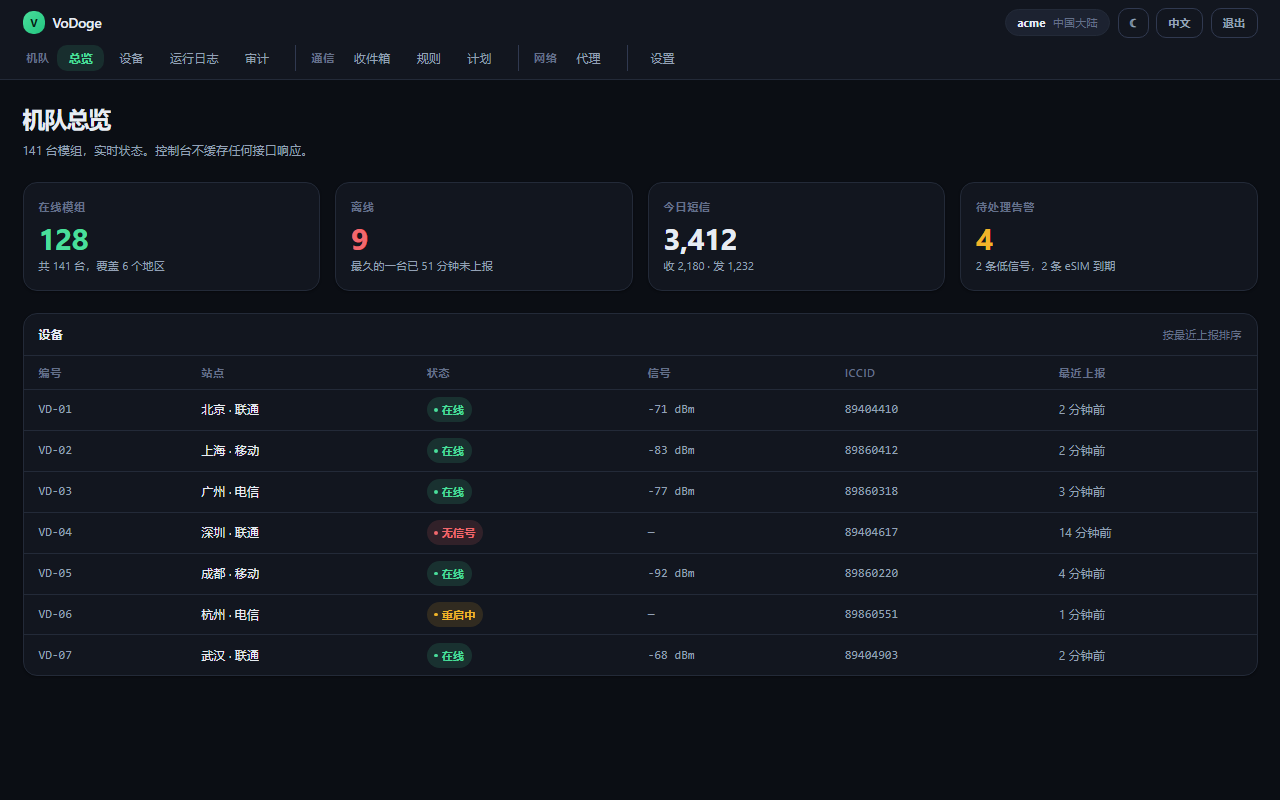
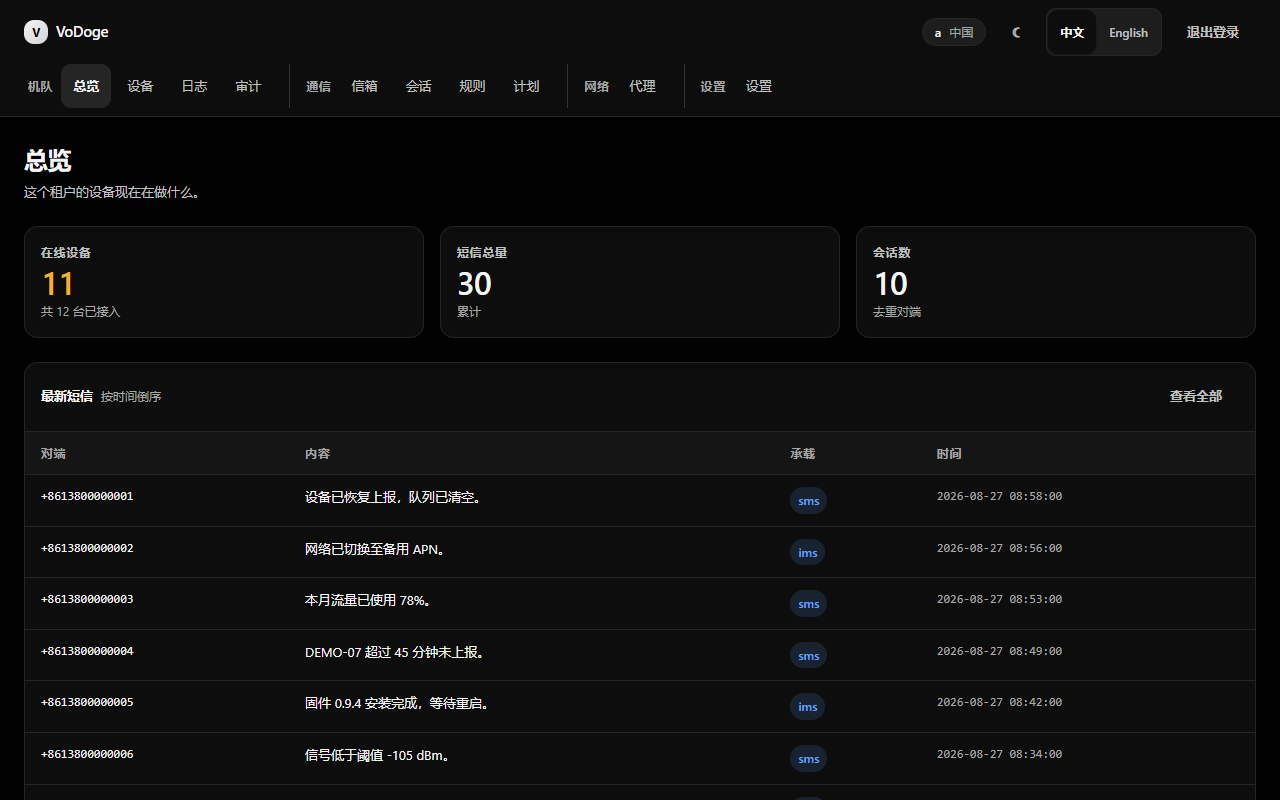
T013: capture the install-dialog screenshots from the real page, and guard them
Both manifest screenshots were the old green palette — 13 of 15 retired tokens
in the narrow file, none of the new ones. They were also, and worse, pictures of
a page this console has never had: four stat cards and a device table headed
机队总览, against a real overview of three stat cards and a recent-messages table
headed 总览. Not one of their strings is in messages/zh.json, and 12b1ef7 — the
commit that added the files — already had the three-card shape. They were drawn,
not taken. Recolouring them would have made the drawing more convincing, so both
are now captured from the real page under a stub gateway serving synthetic data.

They are viewport screenshots and cannot be whole-page ones: at 390 CSS px the
table starts at y=818 and the page is 931 tall with every row hidden, against a
declared frame of 844, and the 0.43 aspect floor caps a 780-wide image at about
907. That is not the defect the icons shipped with — there the layout width
disagreed with the frame. Here it does not, and the guard checks exactly that.

Two tests in lib/pwa.test.ts, which the size check could never do:

  - the palette must be the current one, read off COLOR_TOKENS rather than
    written down, so a hex typed into the test cannot outlive a palette change;
  - the shell must reach both margins and the content column's gutters must be
    symmetric, which is what tells a page from a corner of a wider one.

Mutation verified in an isolated copy of the tree, so lib/tokens.ts was never
[…]

diff --git a/apps/console/lib/pwa.test.ts b/apps/console/lib/pwa.test.ts
@@ -904,6 +904,171 @@ test("the install dialog has a screenshot of each shape, at the declared size", 
   }
 });
 
+/* ── What the install dialog actually shows a person ──────────────────
+ *
+ * The size check above was the only thing looking at these two files, and it
+ * is the same check that let five cropped icons ship. It cannot see colour and
+ * it cannot see composition, and both had gone wrong here at once:
+ *
+ *   - Every pixel was the old green palette. 13 of 15 retired tokens were
+ *     present in the narrow file and none of the new ones were — not partial
+ *     drift, the entire picture.
+ *   - Worse, the picture was of a page this console has never had: four stat
+ *     cards and a device table headed 机队总览. The real overview has three
+ *     stat cards and a recent-messages table headed 总览. `git show
+ *     12b1ef7:apps/console/app/page.tsx` — the commit that added these very
+ *     files — already had the three-card shape, and not one of the strings in
+ *     the old images exists in messages/zh.json. They were drawn, not taken.
+ *
+ * Recolouring a drawing of a page that does not exist would have made it more
+ * convincing, not less wrong, so both files are now captured from the real
+ * page under a stub gateway serving synthetic data.
+ *
+ * 🔴 THESE ARE VIEWPORT SCREENSHOTS, NOT WHOLE-PAGE IMAGES, AND THEY CANNOT BE.
+ * At 390 CSS px the messages table does not begin until y=818, and the page is
+ * 931 CSS px tall even with every row hidden — against a declared frame of 844
+ * (=1688/2). No demo data fits it. Nor does any legal reframing: at 780 wide,
+ * Chromium's 0.43 aspect floor caps the height at about 907 CSS px, and the
+ * page's own floor is 931. There is no honest 780x1688 that holds the whole
+ * page, so what these show is the top of a page that scrolls — which is what a
+ * phone screenshot is.
+ *
+ * That is emphatically NOT the defect the icons shipped with. That one was a
+ * LAYOUT WIDTH that disagreed with the frame — laid out at 466, framed at 192,
+ * so the composition itself was wrong while the size was right. The two checks
+ * below are what tell those apart: the palette has to be the current one, and
+ * the layout has to have been done at the frame's own width.
+ */
+
+/** Every dark-theme token colour, packed, so a pixel costs one lookup. */
+function darkTokenPalette(): Map<number, string> {
+  const packed = new Map<number, string>();
+  for (const value of Object.values(COLOR_TOKENS)) {
+    const hex = value.dark.toLowerCase();
+    // The soft tints are rgba() and never land on an exact pixel; skip them
+    // rather than pretend a translucent token has a colour of its own.
+    if (!/^#[0-9a-f]{6}$/.test(hex)) continue;
+    const [r, g, b] = rgbOf(hex);
+    packed.set((r << 16) | (g << 8) | b, hex);
+  }
+  return packed;
+}
+
+/**
+ * The tokens this page genuinely paints, and therefore the ones a stale file
+ * would betray. Measured when these images were made — narrow / wide:
+ * bg 279271/198705, surface 913047/721768, surface-raised 34956/50845,
+ * surface-hover 16134/3892, line 17121/16238, fg 5746/2716,
+ * fg-muted 6077/1346, fg-faint 3780/1200.
+ *
+ * `fg-strong` (3 px / 0 px) and `line-strong` (528 / 132) are deliberately out.
+ * A token the overview does not paint cannot make the screenshot stale, and
+ * demanding it would only make this red the day a layout stops using it.
+ */
+const SCREENSHOT_TOKENS = [
+  "bg",
+  "surface",
+  "surface-raised",
+  "surface-hover",
+  "line",
+  "fg",
+  "fg-muted",
+  "fg-faint",
+] as const;
+
+test("the install dialog's screenshots are painted in the palette this console ships", () => {
+  const palette = darkTokenPalette();
+  for (const shot of consoleManifest().screenshots) {
+    const image = pngPixels(readPublic(shot.src.slice(1)));
+    const counts = new Map<string, number>();
+    let tokenPixels = 0;
+    for (let y = 0; y < image.height; y++) {
+      for (let x = 0; x < image.width; x++) {
+        const p = image.at(x, y);
+        const hex = palette.get((p[0] << 16) | (p[1] << 8) | p[2]);
+        if (hex === undefined) continue;
+        counts.set(hex, (counts.get(hex) ?? 0) + 1);
+        tokenPixels++;
+      }
+    }
+
+    // Read off COLOR_TOKENS rather than written down here: a hex typed into
+    // this file would go on passing after the palette moved, which is the
+    // exact failure these images already shipped once.
+    for (const name of SCREENSHOT_TOKENS) {
+      const hex = COLOR_TOKENS[name].dark.toLowerCase();
+      assert.ok(
+        (counts.get(hex) ?? 0) >= 500,
+        `${shot.src} has ${counts.get(hex) ?? 0} pixels of --${name} (${hex}) — ` +
+          `the palette moved and this file was not recaptured with it`,
+      );
+    }
+
+    // The counterweight: every named token could be present while most of the
+    // frame was something else entirely. 96.9% / 97.4% when captured.
+    const share = tokenPixels / (image.width * image.height);
+    assert.ok(
+      share >= 0.9,
+      `only ${(share * 100).toFixed(1)}% of ${shot.src} is a token colour — it is not this palette`,
+    );
+  }
+});
+
+test("each screenshot is the page at its own width, not a corner of a wider one", () => {
+  const canvas = rgbOf(COLOR_TOKENS.bg.dark);
+  for (const shot of consoleManifest().screenshots) {
+    const image = pngPixels(readPublic(shot.src.slice(1)));
+    const isCanvas = (x: number, y: number) => near(image.at(x, y), canvas, 2);
+
+    // The app shell's header is full-bleed. If the frame were wider than the
+    // layout, the right of this row would be bare canvas.
+    for (const [where, x] of [
+      ["left", 0],
+      ["middle", image.width >> 1],
+      ["right", image.width - 1],
+    ] as const) {
+      assert.ok(
+        !isCanvas(x, 0),
+        `${shot.src}: the top row is canvas at the ${where} — the shell does not reach that edge, ` +
+          `so this frame is wider than the page that was laid out in it`,
+      );
+    }
+
+    // And the other direction. The content column is padded by an equal gutter
+    // on both sides, so the commonest left/right pair in the frame is
+    // symmetric — 24|24 on 713 of the narrow rows and 523 of the wide ones.
+    // Lay the page out wider than the frame and the right gutter is gone; lay
+    // it out narrower and the right gutter is enormous. Either way this pair
+    // stops matching, which is what a crop looks like from the pixels.
+    const pairs = new Map<string, number>();
+    for (let y = 0; y < image.height; y++) {
+      let first = -1;
+      let last = -1;
+      for (let x = 0; x < image.width; x++) {
+        if (isCanvas(x, y)) continue;
+        if (first < 0) first = x;
+        last = x;
+      }
+      if (first <= 0 || last >= image.width - 1) continue;
+      const key = `${first}|${image.width - 1 - last}`;
+      pairs.set(key, (pairs.get(key) ?? 0) + 1);
+    }
+    const [modal, rows] = [...pairs.entries()].sort((a, b) => b[1] - a[1])[0] ?? ["none", 0];
+    const [left, right] = modal.split("|").map(Number);
+    assert.ok(
+      rows >= image.height * 0.15,
+      `${shot.src}: only ${rows} rows share a gutter pair (${modal}) — there is no content ` +
+        `column here, so nothing says the layout was done at ${image.width} px`,
+    );
+    assert.ok(
+      Math.abs(left - right) <= 2,
+      `${shot.src}: the content column sits ${left}px from the left and ${right}px from the ` +
+        `right — a centred column cannot do that, so this frame is a crop of a differently ` +
+        `sized layout`,
+    );
+  }
+});
+
 test("the manifest still asks for a standalone window with the app's own colours", () => {
   const m = consoleManifest();
   assert.equal(m.display, "standalone");

diff --git a/apps/console/components/theme-toggle.tsx b/apps/console/components/theme-toggle.tsx
@@ -34,7 +34,7 @@ function paintStatusBar(root: HTMLElement): void {
  * like a bug and is not one. Nothing applies the theme until this effect runs,
  * so the first painted frame is always the dark theme; a reader on the light
  * one watches the page repaint. Measured on a signed-in page, the first frame
- * carries no `data-theme` at all and `--bg` is `#0b0e14`, and `dynamic =
+ * carries no `data-theme` at all and `--bg` is `#010102`, and `dynamic =
  * "force-dynamic"` in `app/layout.tsx` means that happens on every load rather
  * than only the first. It is a deliberate trade against a hydration mismatch,
  * and it was reviewed and kept on 2026-08-26; `docs/goals/vodoge-ui-refactor/
